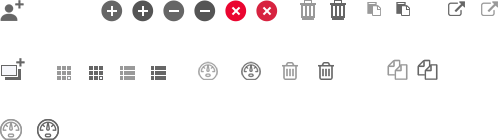
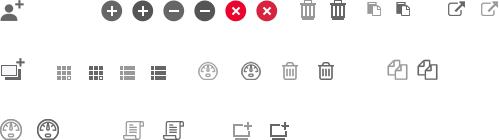
리소스 업데이트

Changed region(s): [[0.24, 0.8571, 0.39, 1.0], [0.45, 0.8857, 0.51, 1.0], [0.54, 0.8857, 0.6, 1.0]]

diff --git a/src/main/resources/static/css/cloudzcp-layout.css b/src/main/resources/static/css/cloudzcp-layout.css
@@ -73,6 +73,7 @@ body.login {background: #ffffff}
 	height: 100%;
 	border-top: 4px solid #ea0530;
 }
+.contents-box:after,
 .locations-area:after,
 .top-area:after,
 .accor-contents__wrap:after,
@@ -80,7 +81,8 @@ body.login {background: #ffffff}
 .login-menu:after,
 .member-title__wrap:after,
 .namespace-sort:after,
-.panel-line__wrap:after {
+.panel-line__wrap:after,
+.now-alert__wrap:after {
 	clear: both;
 	content: '';
 	display: block;
@@ -156,6 +158,8 @@ body.login {background: #ffffff}
 .state.inactive {background: #999999;}
 .state.locked {background: #ea0530}
 .state.active {background: #43a047}
+.Textinput + .Button.btn, .Divselect + .Button.btn, 
+.Button.btn + .Button.btn {margin-left: 6px;}
 /*---------------------------------------
 	header css
 ---------------------------------------*/
@@ -246,6 +250,12 @@ body.login {background: #ffffff}
 	background: #d72340;
 	border: 1px solid #d72340;
 }
+.Button.btn.Disabled,
+.Button.btn.Disabled:hover {
+	color: #bbbbbb;
+	background: #eeeeee;
+	border: 1px solid #dddddd;
+}
 .Button.btn.bg-gray {
 	color: #ffffff;
 	background: #999999;
@@ -328,6 +338,8 @@ body.login {background: #ffffff}
 	background-position: -386px -60px;
 }
 .btn-ico.btn-copy:hover, .btn-ico.btn-copy:hover:active {background-position: -416px -60px;}
+.btn-ico.channel-del {background-position: -295px 2px;}
+.btn-ico.channel-del:hover, .btn-ico.channel-del:active {background-position: -325px 2px;}
 .Textinput.acc-input {
 	width: 80%; 
 	padding: 0 30px 0 15px;
@@ -359,7 +371,6 @@ body.login {background: #ffffff}
 .Button.btn-config:hover, .Button.btn-config:active {background-position: -320px 8px;}
 .Button.btn-adduser, .Button.btn-adduser:hover, .Button.btn-adduser:active {background-position: 6px 6px;}
 .Button.btn-addnamepace, .Button.btn-addnamepace:hover, .Button.btn-addnamepace:active {background-position: 6px -52px;}
-
 .Button.btn-cardview, .Button.btn-listview {
 	width: 26px;
 	height: 26px;
@@ -370,6 +381,13 @@ body.login {background: #ffffff}
 .Button.btn-listview:hover, .Button.btn-listview:active, .Button.btn-listview.Checked {background-position: -147px -61px}
 .Button.btn-godash {background-position: 7px -111px}
 .Button.btn-godash:hover, .Button.btn-godash:active {background-position: -30px -111px}
+.Button.btn-rules {background-position: -116px -113px}
+.Button.btn-rules:hover, .Button.btn-rules:active, .Button.btn-rules.Checked {background-position: -156px -113px}
+.Button.btn-addchannel {
+	width: 30px; 
+	height: 30px;
+	background-position: -227px -118px}
+.Button.btn-addchannel:hover, .Button.btn-addchannel:active, .Button.btn-addchannel.Checked {background-position: -264px -118px}
 /*---------------------------------------
 	Login css
 ---------------------------------------*/
@@ -665,6 +683,10 @@ a.blank-link {
 	height: 30px;
 	text-indent: -9999px;
 	background: transparent url("../images/btn-toggleimg.png") no-repeat 0 0;
+	-webkit-border-radius: 0;
+	-moz-border-radius: 0;
+	-ms-border-radius: 0;
+	border-radius: 0;
 }
 .Button.btn-toggle:hover {
 	background: transparent url("../images/btn-toggleimg.png") no-repeat -48px 0;
@@ -727,8 +749,8 @@ a.blank-link {
 }
 .contents-box {
 	margin: 0 20px;
-	padding: 30px 30px 100px 30px;
-	min-height: 800px;
+	padding: 30px 30px 80px 30px;
+	min-height: 700px;
 	background-color: #fff;
 	-webkit-box-shadow: 0 2px 6px rgba(0, 0, 0, 0.1);
 	-ms-box-shadow: 0 2px 6px rgba(0, 0, 0, 0.1);
@@ -1186,6 +1208,7 @@ a.blank-link {
 .lay-item__right {
 	display: table-cell; 
 	vertical-align: top;
+	width: 50%;
 }
 .lay-item__left {padding-right: 25px}
 .lay-item__right {padding-left: 25px}
@@ -1197,7 +1220,8 @@ a.blank-link {
 	color: #444444;
 	border-top: 1px solid #444444;
 }
-.Tabs .form-title {
+.Tabs .form-title,
+.channel-wrap .form-title {
 	margin-top: 0;
 	padding: 11px 0 14px;
 	font-size: 1.2rem;
@@ -1451,6 +1475,80 @@ a.view-detail:active {
 	font-size: 0.8rem;
 	color: #666666;
 }
+.alert-wrap {
+	clear: both;
+	margin-top: 20px;
+	border-top: 2px solid #444444;
+}
+.alert-title {
+	margin-top: 0;
+	padding: 11px 0 14px;
+	font-size: 1.2rem;
+	font-weight: 500;
+}
+.now-alert__wrap {margin-bottom: 30px;}
+.now-alert li {
+	float: left;
+	width: calc((100% / 4) - 60px);
+	margin-right: 26px;
+	padding: 20px;
+	color: #ffffff;
+}
+.now-alert li:last-child {
+	margin-right: 0
+}
+.now-alert li.bg-typea {background: #f0ad4e;}
+.now-alert li.bg-typeb {background: #43a047;}
+.alert-info {
+	font-size: 3.33rem;
+	font-weight: bold;
+}
+.alert-info em {
+	padding: 0 4px;
+	font-style: normal;
+	font-weight: normal;
+}
+.alert-option__wrap {position: relative;}
+.alert-option {
+	position: absolute;
+	top: 6px;
+	right: 0;
+}
+.alert-option .Divselect {
+	width: 150px;
+	margin: 0 10px;
+	border-color: #888888;
+}
+.form-btn__wrap {position: relative;}
+.form-btn__wrap .btn-wrap__right {
+	position: absolute;
+	right: 0;
+	top: -7px;
+}
+.form-btn__wrap .form-title {
+	margin-bottom: 20px;
+	border-bottom: 1px solid #cccccc;
+}
+.form-btn__wrap .form-subtitle {
+	margin-top: 6px;
+	padding: 14px 0 10px;
+	font-size: 1.07rem;
+	font-weight: 500;
+	color: #444444;
+}
+.channel-noti {
+	display: table;
+	width: 100%;
+	padding: 20px 0;
+	border-bottom: 1px solid #cccccc;
+}
+.channel-noti__left,
+.channel-noti__right {
+	display: table-cell; 
+	vertical-align: middle;
+}
+.channel-noti__right  {text-align: right;}
+.Table.Form-type.channel-line tbody {border-top: 1px solid #444444;}
 /*---------------------------------------
 	popup css
 ---------------------------------------*/

diff --git a/src/main/resources/static/css/cloudzcp-ui.css b/src/main/resources/static/css/cloudzcp-ui.css
@@ -63,7 +63,10 @@
 	-o-transition: none;
 	transition: none;
 }
-.ImageCheckbox, .ImageRadio {font-size: 1.0rem;}
+.ImageCheckbox, .ImageRadio {
+	font-size: 1.0rem;
+	padding-left: 4px;
+}
 .ImageCheckbox:after {
 	left: 1px;
 	top: 42%;
@@ -110,7 +113,8 @@
 	-ms-border-radius: 0;
 	border-radius: 0;
 }
-.Textinput:hover, .Textinput:focus, .Textinput:active {
+.Textinput:hover, .Textinput:focus, .Textinput:active, 
+.Textarea, .Textarea:hover, .Textarea:focus, .Textarea:active {
 	border: 1px solid #cccccc;
 }
 .Table.Form-type {
@@ -148,9 +152,18 @@
 	-ms-border-radius: 0;
 	border-radius: 0;
 }
+.Divselect > select {
+	padding: 10px;
+	font-size: 1.0rem;
+	color: #999999;
+}
 .Divselect:hover, .Divselect:active, .Divselect.ui-state-active {
 	border-color: #888888;
 	background: #ffffff url("../images/ico-form.png") no-repeat right -50px;
+}
+.Divselect.Disabled, .Divselect.Disabled:hover {
+	border-color: #cccccc;
+	background: #ebebeb url("../images/ico-form.png") no-repeat right -50px;
 }
 .Tooltip {
 	padding: 6px 20px 8px;

diff --git a/src/main/resources/static/css/cloudzcp-grid.css b/src/main/resources/static/css/cloudzcp-grid.css
@@ -1,6 +1,6 @@
 .alopexgrid .wrapper {
 	border: 0;
-	border-bottom: 1px solid #eeeeee;
+	border-bottom: 1px solid #cccccc;
 }
 .alopexgrid .headercell, 
 .alopexgrid .headercell.cell-header-lastrow.cell-header-firstrow {
@@ -8,7 +8,7 @@
 	padding-top: 6px;
 	color: #444444;
 	font-weight: bold;
-	border-top: 1px solid #eeeeee;
+	border-top: 1px solid #cccccc;
 	background: #ffffff;
 }
 .alopexgrid .cell {
